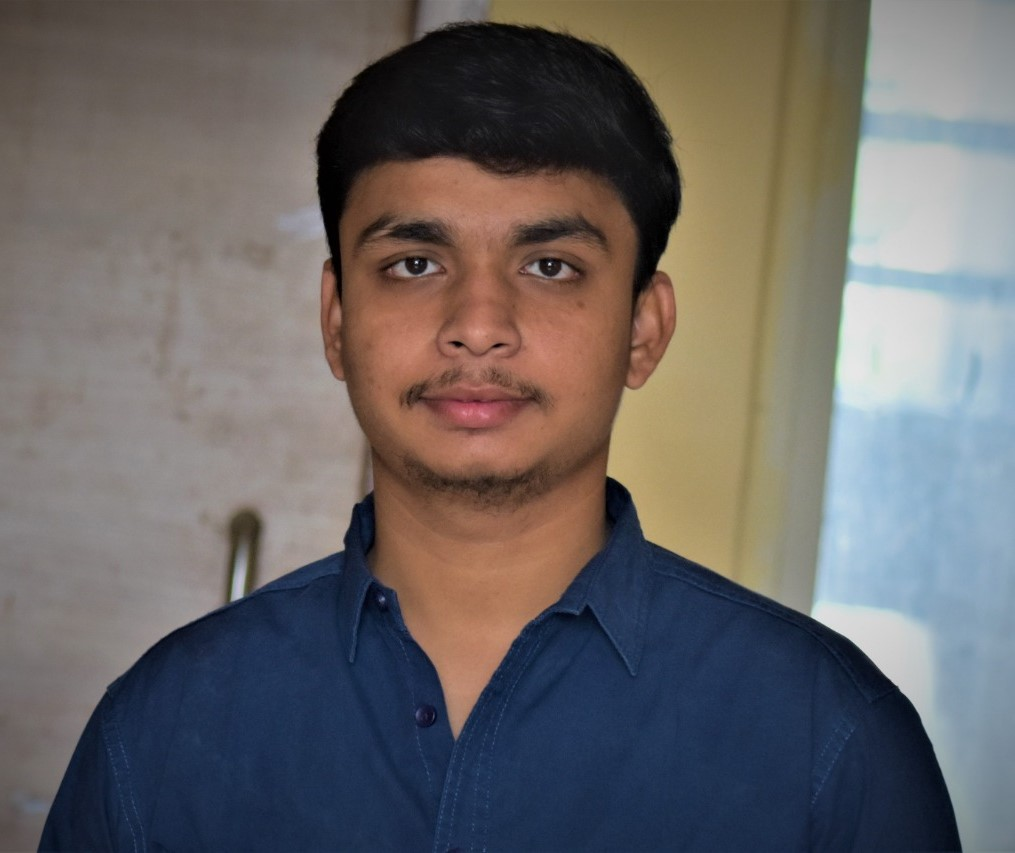
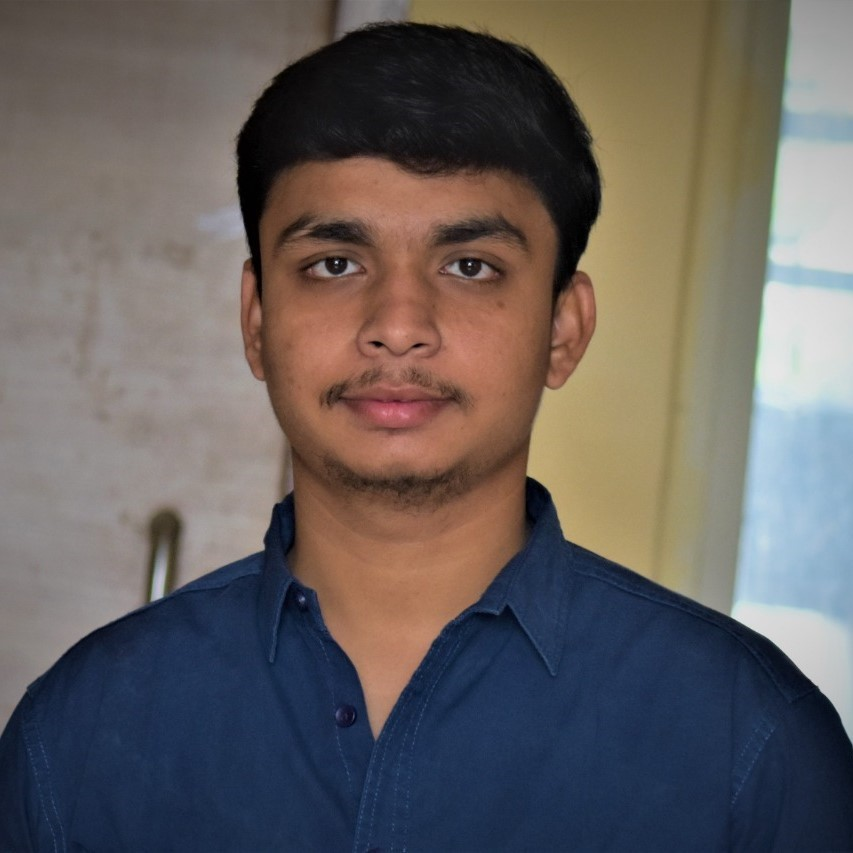
images added

diff --git a/team.html b/team.html
@@ -134,7 +134,7 @@
 				</div>
 				<div class="mix col-lg-3 col-md-4 col-sm-6 movies">
 					<div class="playlist-item">
-						<a target ="_blank" href="img/team/avatar.jpg"><img src="img/team/avatar.jpg" alt=""></a>
+						<a target ="_blank" href="#"><img src="img/team/krishna.jpeg" alt=""></a>
 						<h5>Krishna Singh</h5>
 						<p>Secretary</p>
 					</div>
@@ -218,7 +218,7 @@
 				</div>
 				<div class="mix col-lg-3 col-md-4 col-sm-6 movies">
 					<div class="playlist-item">
-						<a href=""><img src="img/team/avatar.jpg" alt=""></a>
+						<a href="https://www.facebook.com/swapnil.gupta.7587370"><img src="img/team/swapnil.PNG" alt=""></a>
 						<h5>Swapnil Gupta</h5>
 						<p>Alumni Relations Head</p>
 					</div>
